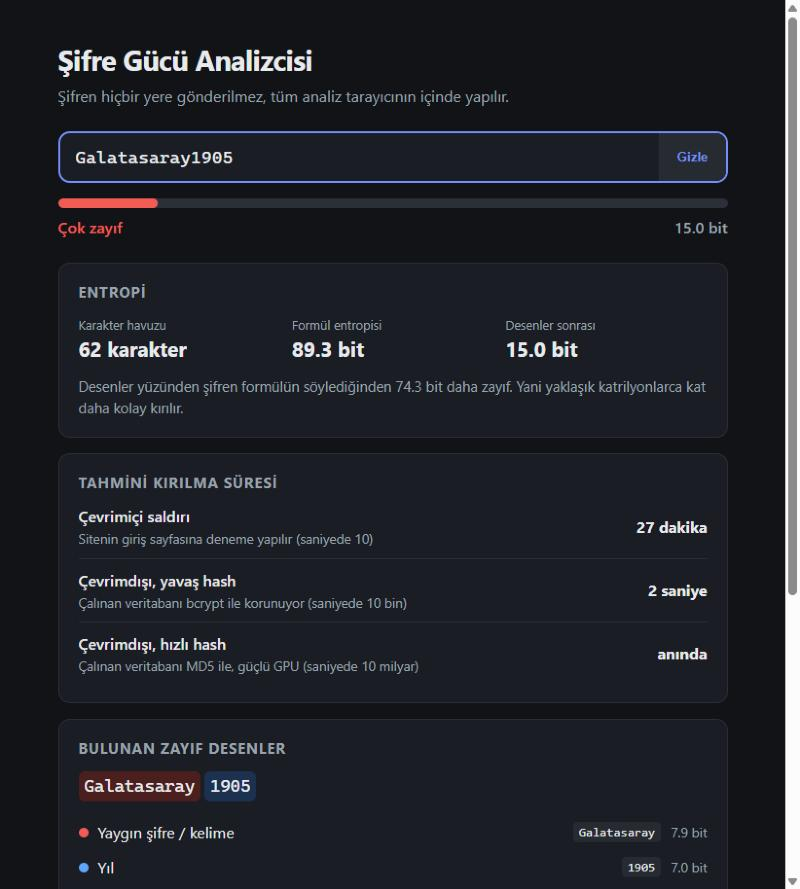
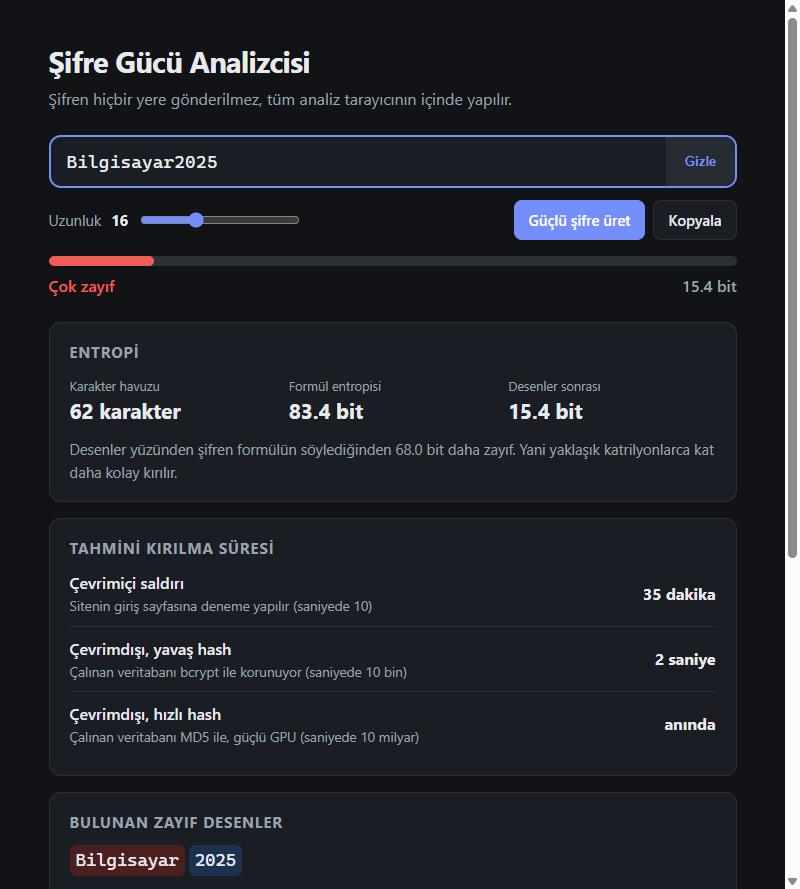
Use neutral example password in README and screenshot

diff --git a/README.md b/README.md
@@ -12,11 +12,11 @@ Klasik şifre kontrolleri "büyük harf, rakam ve sembol var mı?" diye bakar. A
 
 | Şifre | Formül entropisi | Gerçek entropi | Hızlı saldırıda kırılma |
 |---|---|---|---|
-| `Galatasaray1905` | 89.3 bit | 15.0 bit | anında |
+| `Bilgisayar2025` | 83.4 bit | 15.4 bit | anında |
 | `P@ssw0rd` | 52.6 bit | 3.6 bit | anında |
 | `mavikedibahcedeuyur` | 89.3 bit | 77.8 bit | ~412 bin yıl |
 
-`Galatasaray1905` kâğıt üzerinde çok güçlü görünür, ama saldırgan onu harf harf değil, **"yaygın kelime + yıl"** olarak tahmin eder. Bu araç tam olarak bu farkı gösterir.
+`Bilgisayar2025` kâğıt üzerinde çok güçlü görünür, ama saldırgan onu harf harf değil, **"yaygın kelime + yıl"** olarak tahmin eder. Bu araç tam olarak bu farkı gösterir.
 
 ## Özellikler
 
